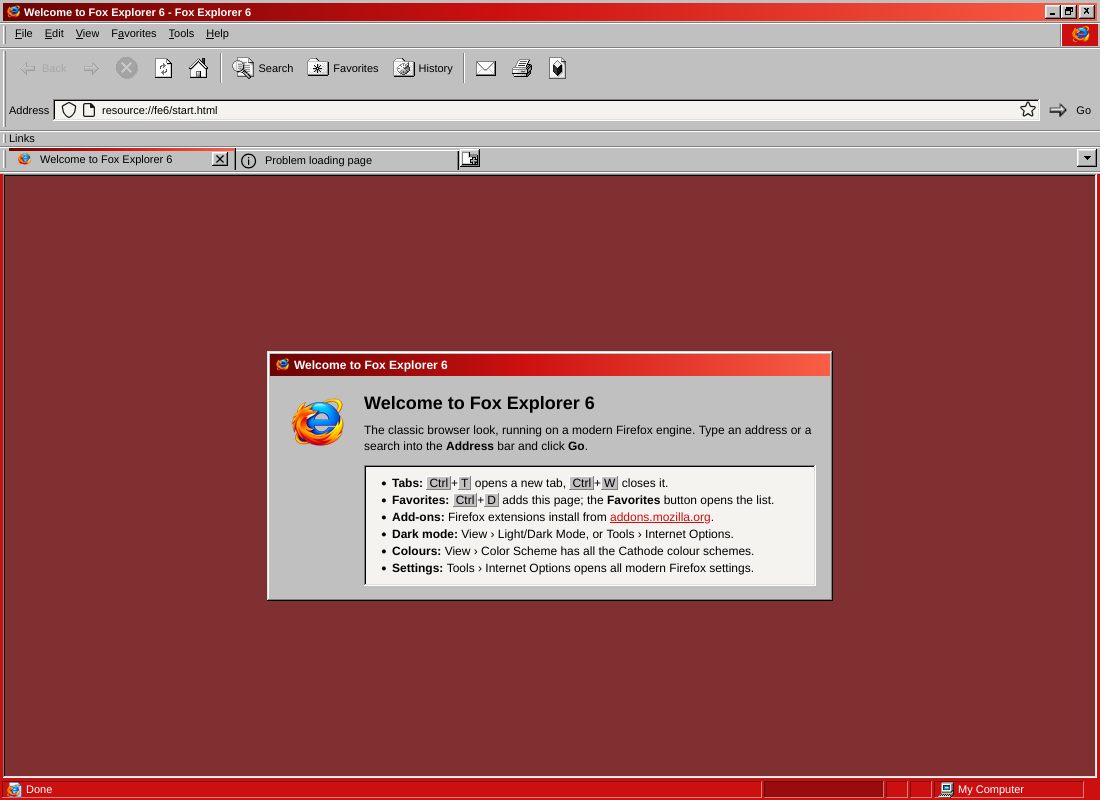
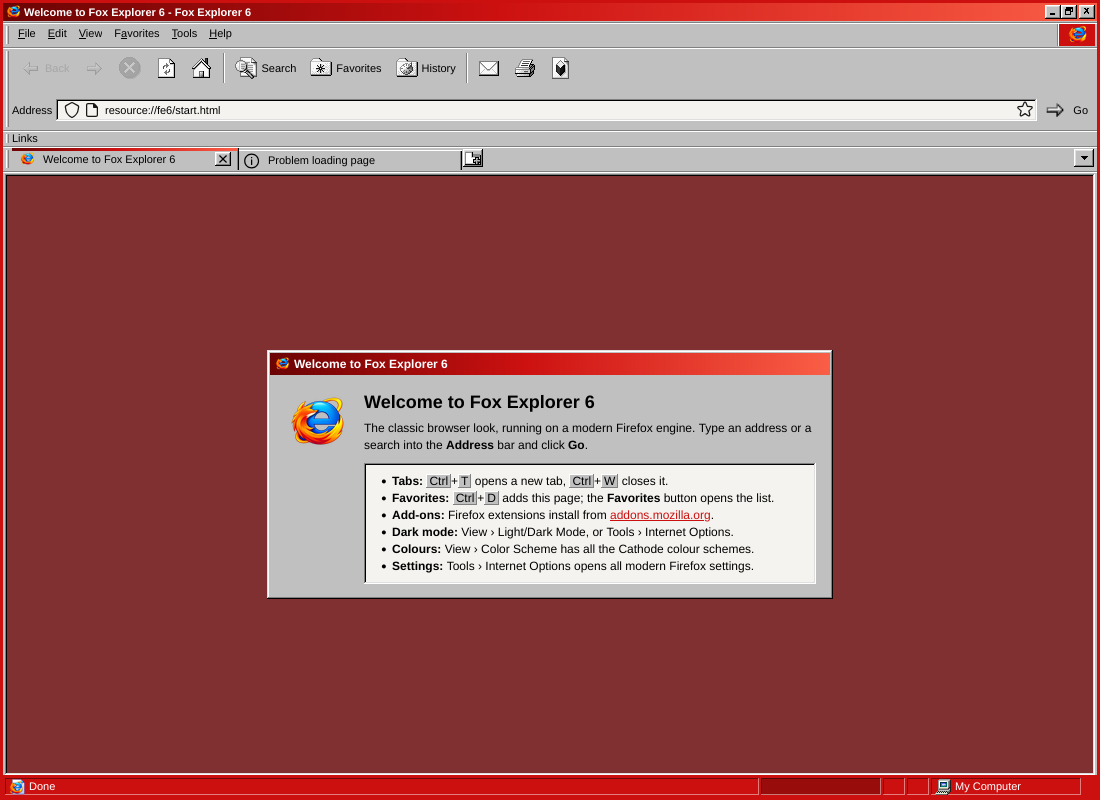
Colored frame all the way round the window; fix windowed mode
- The colored status bar's frame now runs round the whole window (top,
  sides, bottom) instead of only the page area.
- Windowed mode: count the frame padding inside the window, so the contents
  no longer spill past the right and bottom edges (which cut the frame and
  the close button off).
- The rule removing GTK's rounded corners was invalid (::backdrop inside
  :is()) and was ignored; split it so the corners are square.

Claude-Session: https://claude.ai/code/session_01G5znAzAYtwxDX88ADjDDVX

diff --git a/theme/fe6/fe6.css b/theme/fe6/fe6.css
@@ -158,12 +158,7 @@ body, #browser { background: var(--fe-face) !important; color: var(--fe-text) !i
 :root[sizemode="maximized"] #fe6-cap-max { background-image: url("icons/cap-restore.svg"); }
 #fe6-cap-close { background-image: url("icons/cap-close.svg"); margin-inline-start: 2px !important; }
 
-/* Win98 window frame around the whole window when it isn't maximised */
-:root[customtitlebar][fe6-caption][sizemode="normal"] body,
-:root[tabsintitlebar][fe6-caption][sizemode="normal"] body {
-  box-shadow: var(--fe-raised);
-  padding: 2px;
-}
+/* (the Win98 window frame, windowed and coloured, is at the end of this file) */
 
 /* ===================================================================== menu bar */
 #toolbar-menubar { padding-inline-end: 0 !important; }
@@ -1068,23 +1063,38 @@ sidebar-main, #sidebar-main {
     var(--fe-cs-hi) 65% 70%, var(--fe-cs-lo) 70% 80%, transparent 80% 85%,
     var(--fe-cs-hi) 85% 90%, var(--fe-cs-lo) 90% 100%) !important;
 }
-/* the sides of the page area pick up the colour, framing it together with the status bar */
-:root[fe6-colored-status] #tabbrowser-tabbox { background: var(--fe-accent, var(--fe-sel)) !important; padding: 0 3px !important; }
+/* and a frame of the colour runs all the way round the window (see "window frame" below) */
 
-/* ===================================================================== windowed mode
+/* ===================================================================== window frame
    Firefox's Linux theme clips the window to the GTK title bar's rounded corners when it isn't
-   maximised. Cathode windows are square, with the Windows 98 frame, so drop the rounding. */
-:root[customtitlebar] :is(body, dialog::backdrop) {
+   maximised. Cathode windows are square, so drop the rounding. (Separate selectors on purpose:
+   a pseudo-element like ::backdrop inside :is() makes the whole rule invalid.) */
+:root[customtitlebar] body,
+:root[customtitlebar] dialog::backdrop,
+:root[tabsintitlebar] body {
   border-radius: 0 !important;
 }
-:root[customtitlebar][fe6-caption][sizemode="normal"] body,
-:root[tabsintitlebar][fe6-caption][sizemode="normal"] body {
-  /* the Win98 window border: light/white outside top-left, gray/black bottom-right, 3px of face */
+
+/* the frames below are body padding: count it inside the window, or the window's contents
+   spill past its right and bottom edges and the frame gets cut off there */
+:root body { box-sizing: border-box !important; max-width: 100vw !important; max-height: 100vh !important; }
+
+/* Windowed: the Windows 98 window border round the whole window, 2px bevel + 2px of face */
+:root:is([customtitlebar], [tabsintitlebar])[fe6-caption][sizemode="normal"] body {
   box-shadow: var(--fe-raised) !important;
+  padding: 4px !important;
+}
+
+/* Colored status bar: the frame round the whole window is the scheme colour. Windowed, it sits
+   inside the Win98 bevel; maximised, it's a 3px band round the edge of the screen. */
+:root[fe6-colored-status] body {
   padding: 3px !important;
+  box-shadow: inset 0 0 0 3px var(--fe-accent, var(--fe-sel)) !important;
 }
-:root[fe6-colored-status][customtitlebar][fe6-caption][sizemode="normal"] body,
-:root[fe6-colored-status][tabsintitlebar][fe6-caption][sizemode="normal"] body {
-  /* coloured frame: the scheme colour between the Win98 bevels */
-  box-shadow: var(--fe-raised), inset 0 0 0 3px var(--fe-accent, var(--fe-sel)) !important;
+:root[fe6-colored-status]:is([customtitlebar], [tabsintitlebar])[fe6-caption][sizemode="normal"] body {
+  padding: 5px !important;
+  box-shadow: var(--fe-raised), inset 0 0 0 5px var(--fe-accent, var(--fe-sel)) !important;
 }
+:root[fe6-colored-status]:is([inFullscreen], [inDOMFullscreen]) body { padding: 0 !important; box-shadow: none !important; }
+/* the caption bar's own margin would leave a gray gap between it and the coloured frame */
+:root[fe6-colored-status] #fe6-caption { margin: 0 0 1px !important; }
